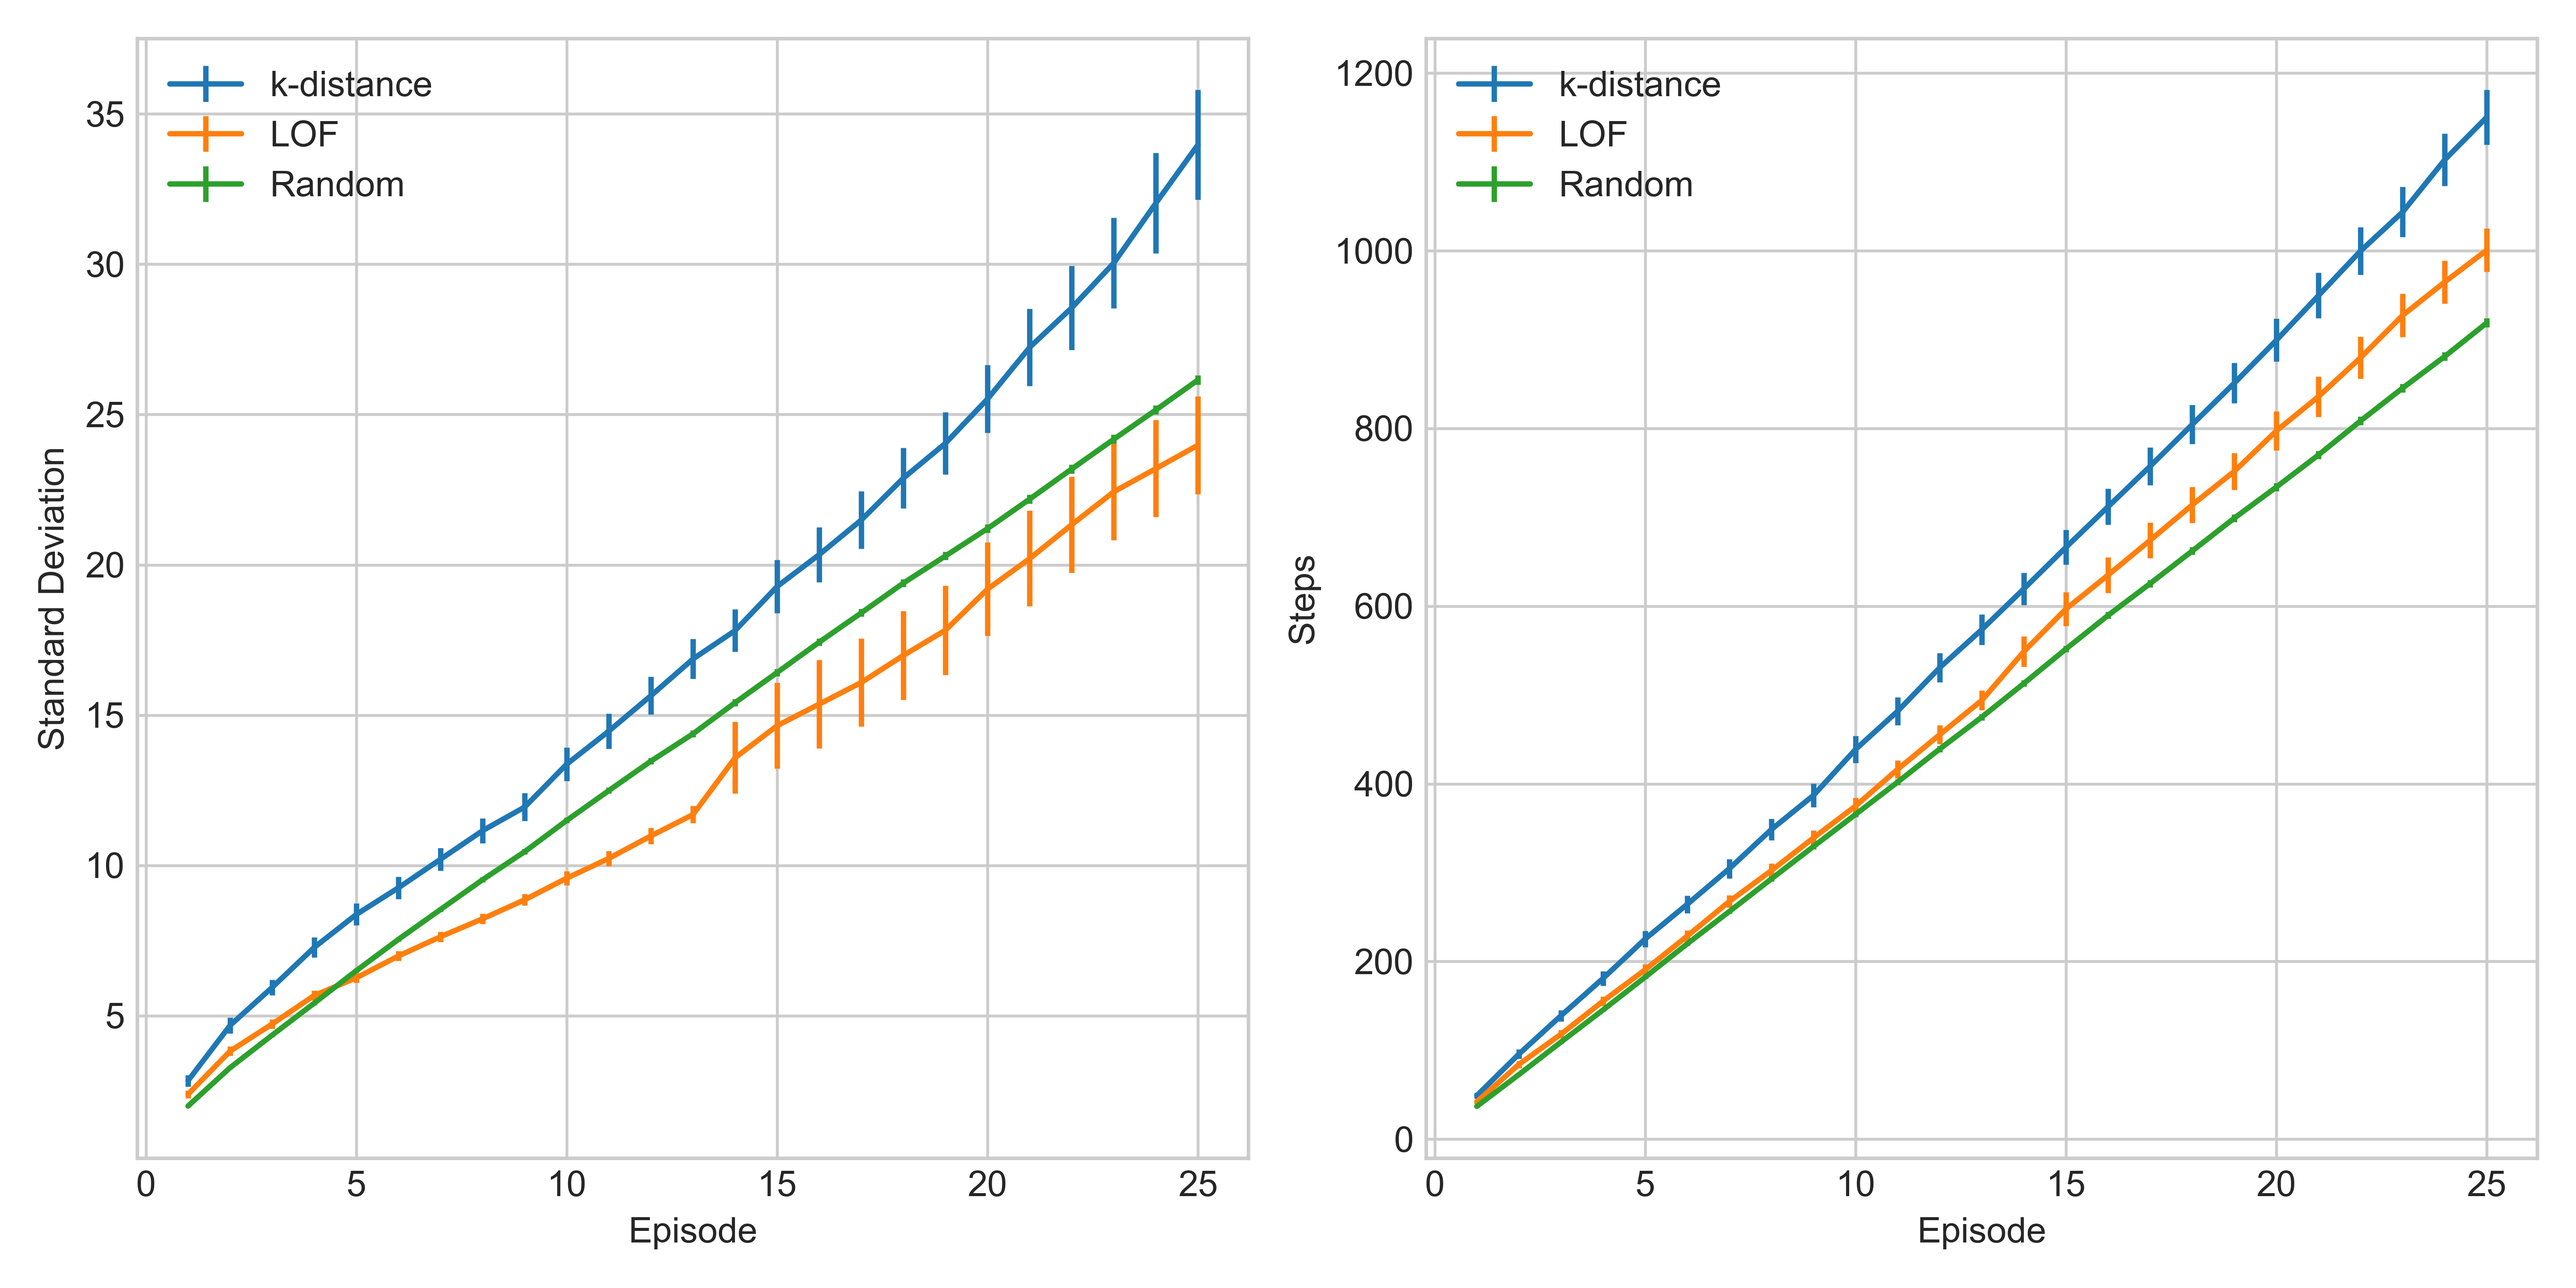
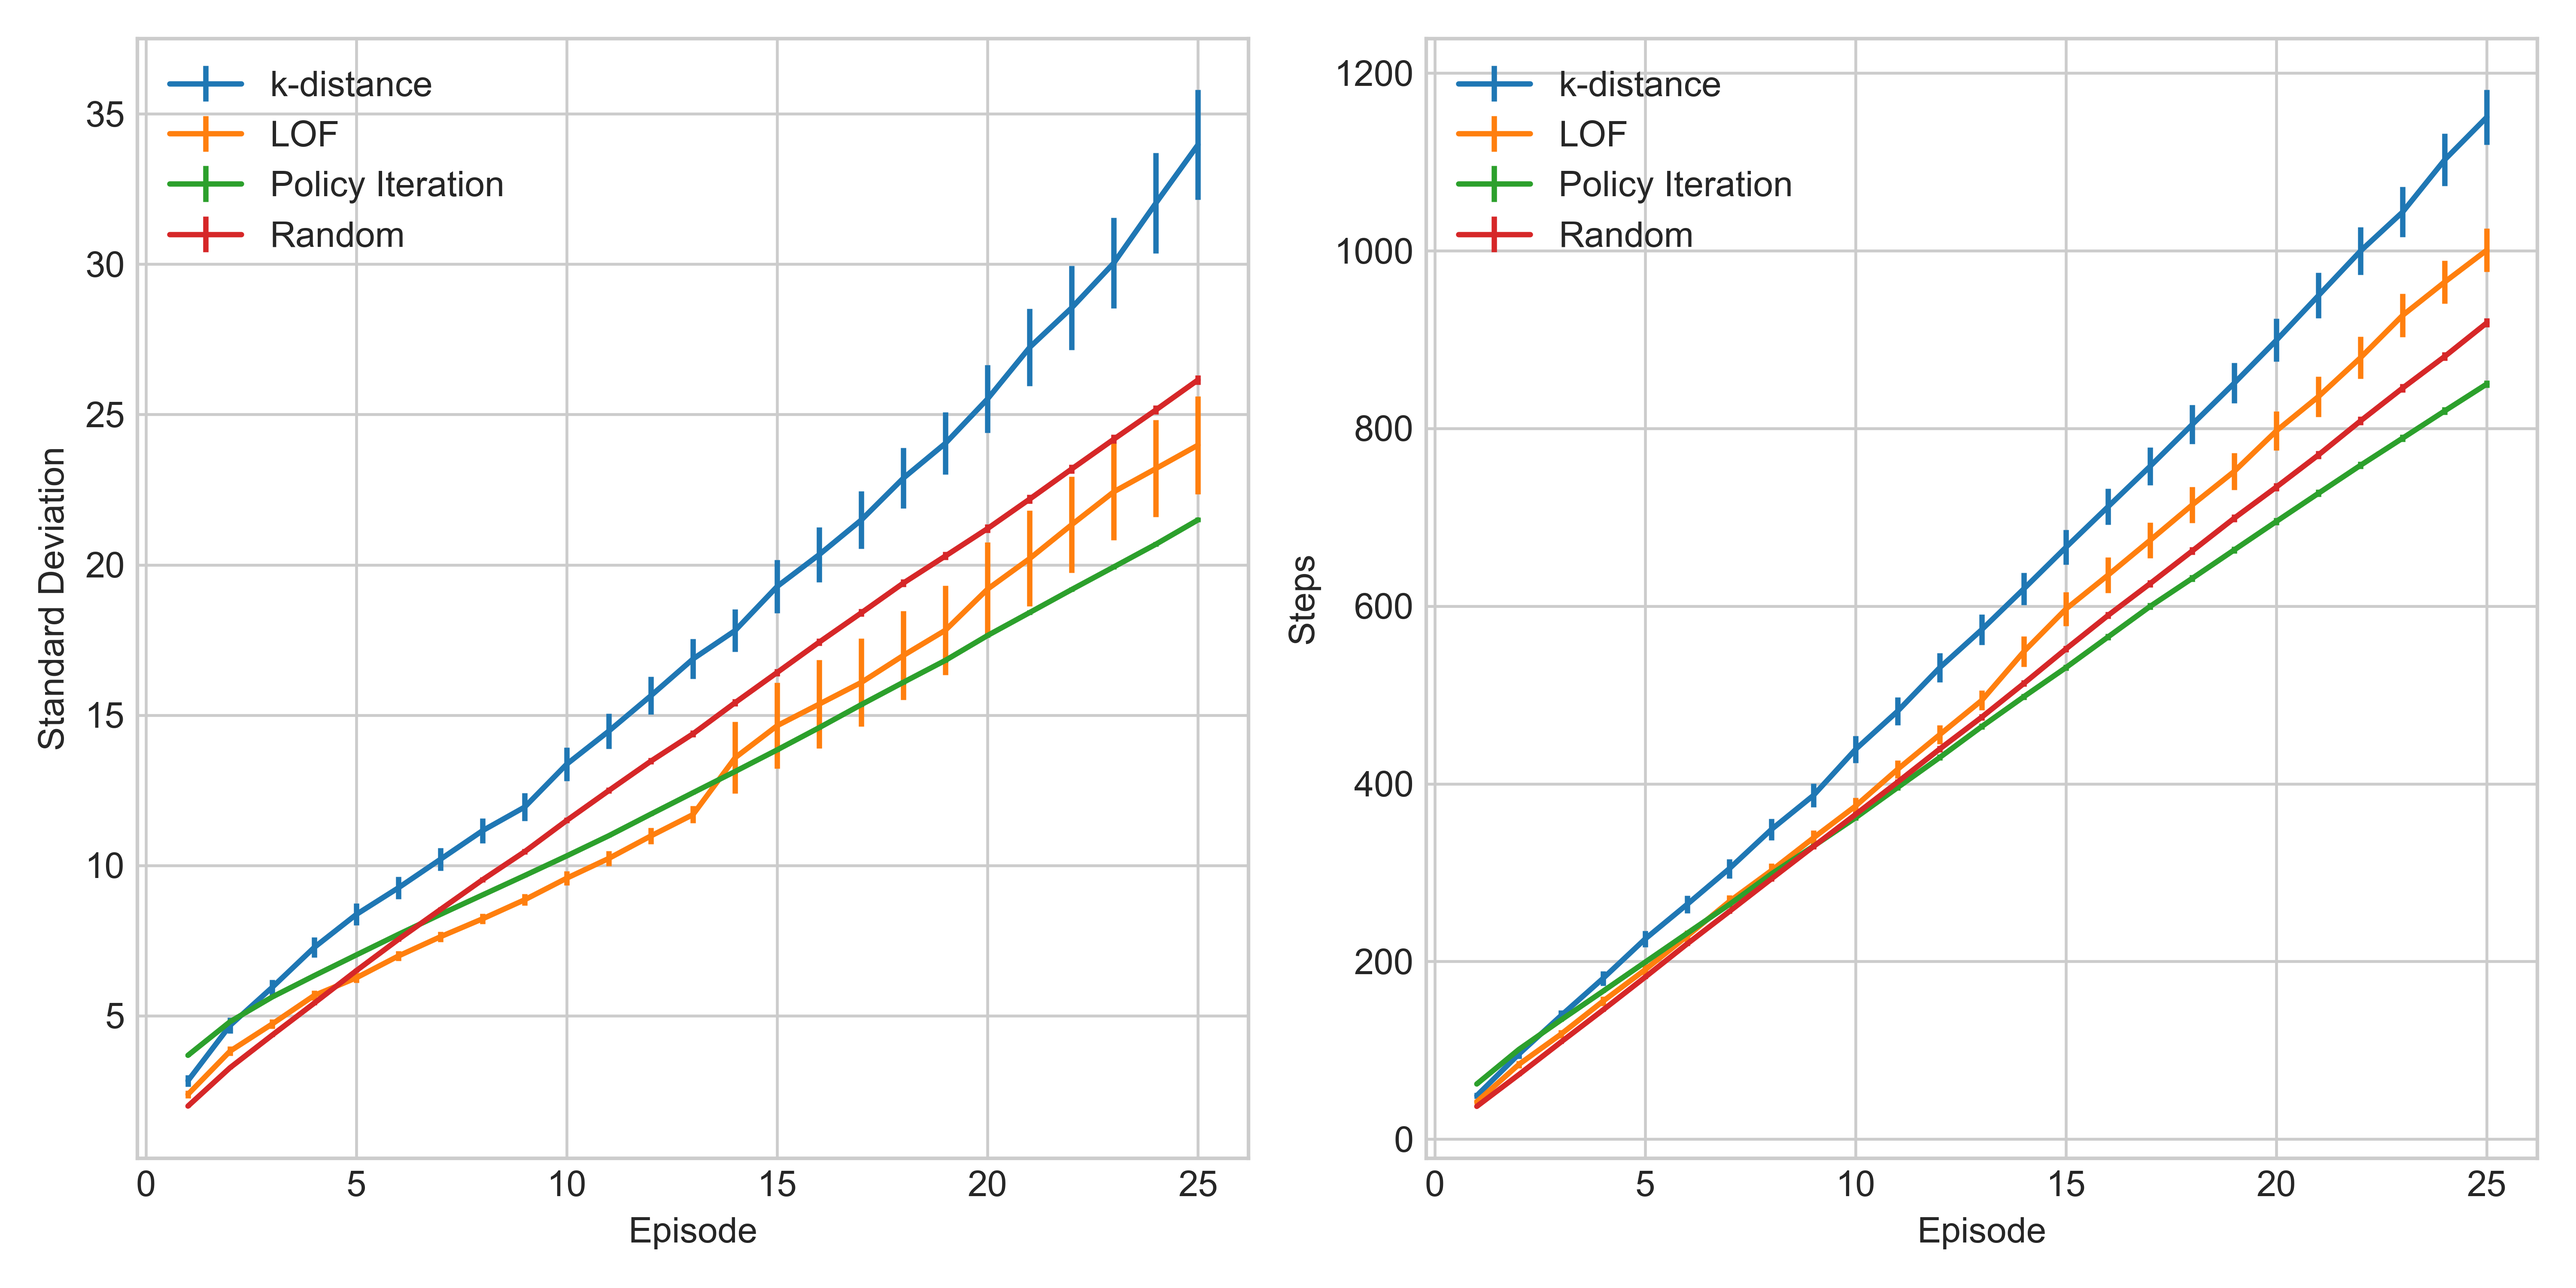
changed policy iteration to use optimistic initialization

diff --git a/plot.py b/plot.py
@@ -102,11 +102,11 @@ ax.errorbar(
     np.nanmean(lof_based_exploration_std, axis=0),
     yerr=st.sem(lof_based_exploration_std, axis=0, nan_policy='omit'),
     label='LOF')
-# ax.errorbar(
-#     episodes,
-#     np.nanmean(policy_iteration_std, axis=0),
-#     yerr=st.sem(policy_iteration_std, axis=0, nan_policy='omit'),
-#     label='Policy Iteration')
+ax.errorbar(
+    episodes,
+    np.nanmean(policy_iteration_std, axis=0),
+    yerr=st.sem(policy_iteration_std, axis=0, nan_policy='omit'),
+    label='Policy Iteration')
 ax.errorbar(
     episodes,
     np.nanmean(random_exploration_std, axis=0),
@@ -129,11 +129,11 @@ ax.errorbar(
     np.nanmean(lof_based_exploration_count, axis=0),
     yerr=st.sem(lof_based_exploration_count, axis=0, nan_policy='omit'),
     label='LOF')
-# ax.errorbar(
-#     episodes,
-#     np.nanmean(policy_iteration_count, axis=0),
-#     yerr=st.sem(policy_iteration_count, axis=0, nan_policy='omit'),
-#     label='Policy Iteration')
+ax.errorbar(
+    episodes,
+    np.nanmean(policy_iteration_count, axis=0),
+    yerr=st.sem(policy_iteration_count, axis=0, nan_policy='omit'),
+    label='Policy Iteration')
 ax.errorbar(
     episodes,
     np.nanmean(random_exploration_count, axis=0),

diff --git a/policy_iteration.py b/policy_iteration.py
@@ -46,7 +46,7 @@ def main(args):
     e = np.zeros(tile_coder.tile_count * NUMBER_OF_ACTIONS)
     F = np.zeros((NUMBER_OF_TILINGS, NUMBER_OF_ACTIONS), dtype=int)
     Q = np.zeros(NUMBER_OF_ACTIONS)
-    theta = np.random.rand(tile_coder.tile_count * NUMBER_OF_ACTIONS) * 0.01
+    theta = np.zeros(tile_coder.tile_count * NUMBER_OF_ACTIONS)
 
     # make function to populate f and q
     def populate(state, F, Q):
